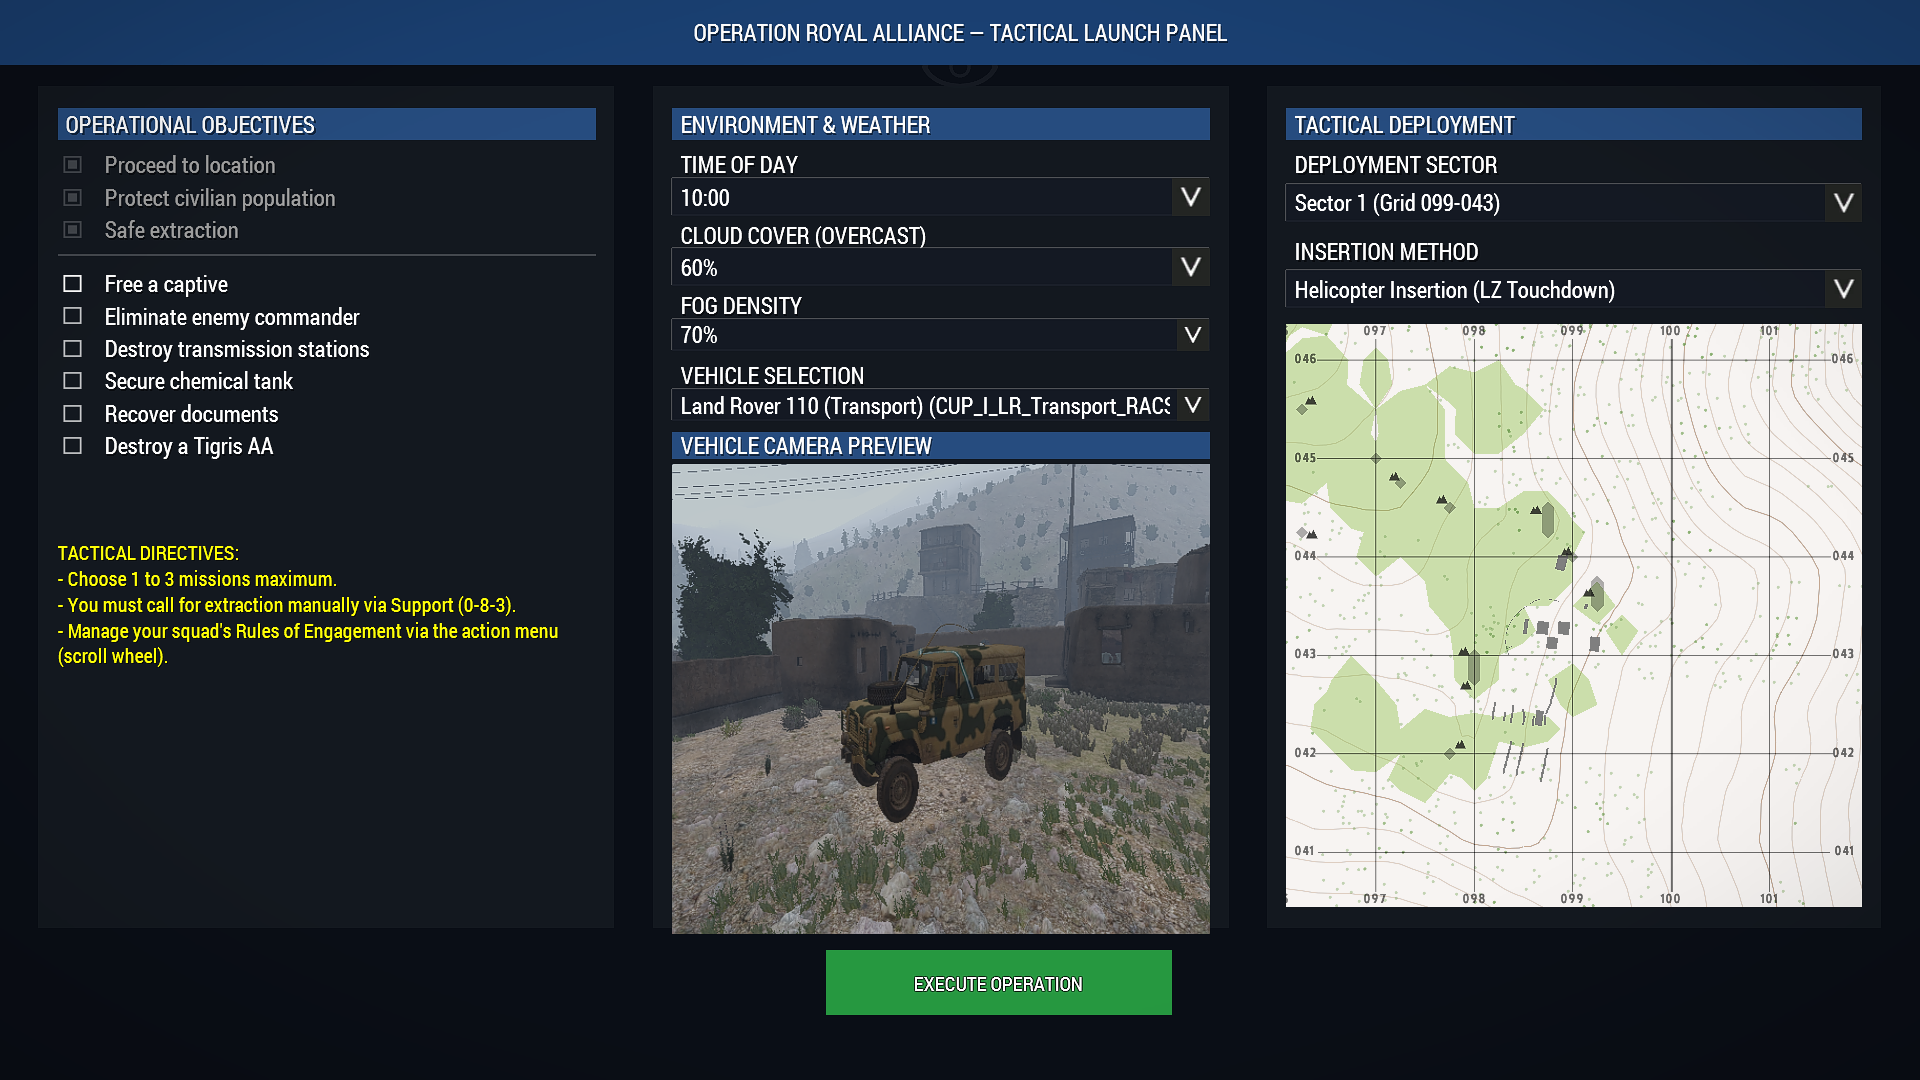
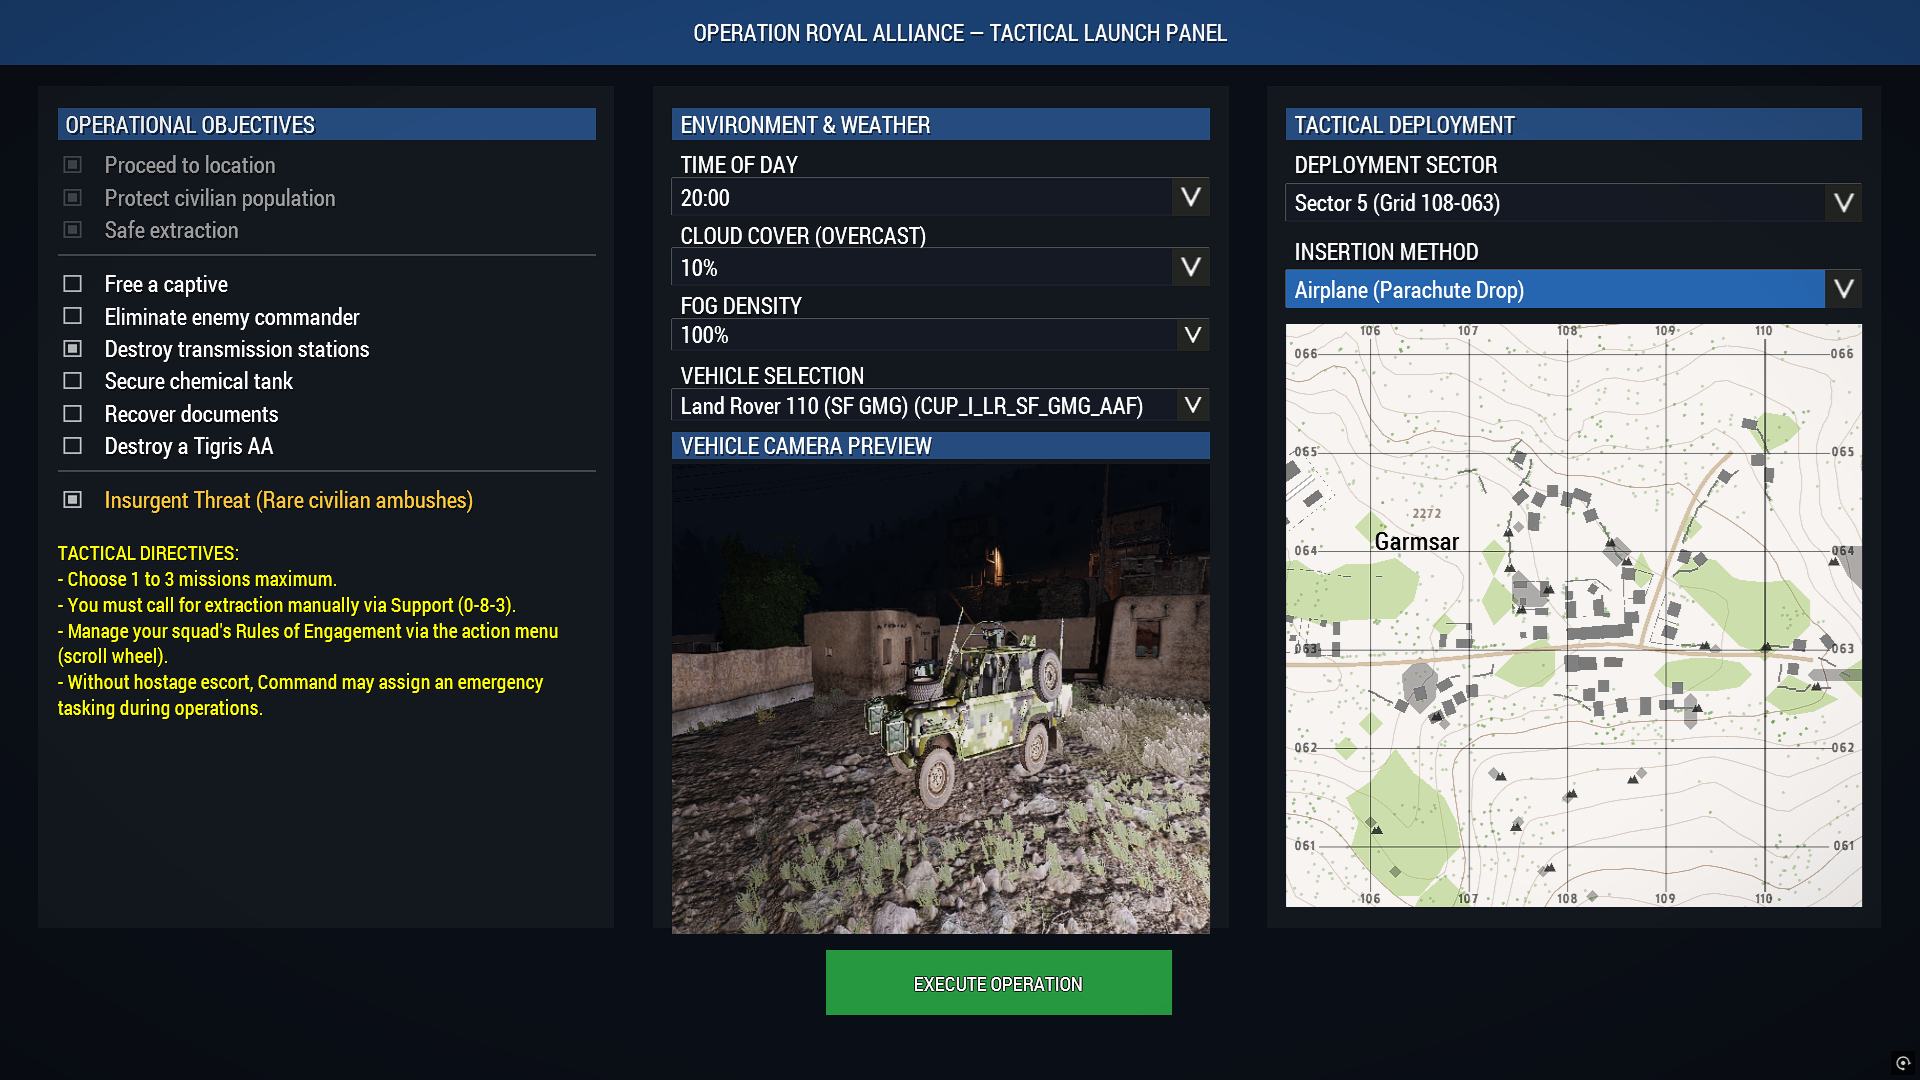
docs & feat: maj description Steam, bips/lumière charge explosive et jumelles

diff --git a/CfgSounds.hpp b/CfgSounds.hpp
@@ -392,6 +392,12 @@ class CfgSounds
         sound[] = {"Music\Shadow_of_the_Valley_01.ogg", db+0, 1.0};
         titles[] = {0, ""};
     };
+    class LL_Charge_Beep
+    {
+        name = "LL_Charge_Beep";
+        sound[] = {"A3\Sounds_F\sfx\beep_target.wss", db+8, 1.0};
+        titles[] = {0, ""};
+    };
     class ezan
     {
         name = "ezan";

diff --git a/INFO_STEAM.md b/INFO_STEAM.md
@@ -34,16 +34,28 @@ Lors de la publication, ajoutez ces mods dans la section "Required items" du Pub
 [b]A custom tactical mission launcher & dynamic operations generator by Friart Script (@friartscript)[/b]
 
 [h2]SITUATION[/h2]
-Deploy into the harsh environments of Takistan. As part of the RACS Foreign Legion, take command through a custom operational launcher to plan and execute dynamic surgical missions behind enemy lines. Every deployment is unique.
+Deploy into the harsh environments of Takistan. As part of the RACS Foreign Legion, take command through a custom operational launcher to plan and execute precision operations behind enemy lines. Every deployment is unique.
+
+[h2]🎖 A WORD FROM THE CREATOR[/h2]
+[quote]
+[b]Hey guys![/b] Keep an eye out for all the small tactical details built into this mission:
+
+• [b]Dynamic Squad & Gear:[/b] Squad uniforms, vests, helmets, faces, voices, and binoculars are procedurally randomized on each run for a fresh experience every time.
+• [b]Adaptive Vehicle Logistics:[/b] Whenever you equip new weapons in the starting arsenal, compatible ammunition and magazines are automatically synchronized and packed into your patrol vehicle's trunk!
+• [b]Tactical Support (0-8 Menu):[/b] Need extra firepower or lost your wheels? The tactical radio support menu delivers ammo supply drops, replacement vehicles, CAS air strikes, and drone reconnaissance straight to your position.
+• [b]Immersive AI & Light Discipline:[/b] Enemies feature realistic night behavior—flashlights stay strictly off in the dark while unaware, diverse gear is worn, and lights only flick on once combat erupts.
+
+I poured a lot of heart into the gritty atmosphere, sound design, and realistic immersion. I really hope you enjoy the experience—feel free to drop a rating and your thoughts in the comments!
+[/quote]
 
 [h2]FEATURES[/h2]
 [list]
 [*] [b]Custom Tactical Mission Launcher[/b]: An interactive 3-panel command center to configure deployment sectors, weather conditions, insertion vector (UH-60 Insertion or C-130 HALO), and live 3D PiP vehicle selection.
-[*] [b]Dynamic Operations Generator[/b]: Choose between 3 mandatory operations and multiple procedural secondary tasks (Hostage Rescue, HVT Elimination, Radio Sabotage, Chemical Weapons, Secret Intel).
-[*] [b]Living Takistani World & Culture[/b]: Authentic local population with men and 3D women (Max Women), traditional Takistani attire and burqas, Persian voice acting, procedural rural livestock (sheep herds), and spatialized 3D Call to Prayer (Ezan) resonating from village mosques.
-[*] [b]Reactive AI & Dynamic Threats[/b]: 6 realistic civilian behavioral profiles fleeing dynamically under fire, diverse insurgent cells (male and female combatants), and coordinated enemy counter-attacks upon objective completion.
-[*] [b]Full Voice Acting & Tactical Support[/b]: Immersive military radio TTS communications, CAS airstrikes, helicopter resupply drops, and real-time MQ-9 Reaper drone surveillance via native communication menu (0-8).
-[*] [b]Multilingual Support[/b]: Fully localized with dynamic subtitles in 12 languages (FR, EN, ES, DE, IT, RU, PL, TR, CN, JP, KO).
+[*] [b]Dynamic Operations Generator[/b]: Choose between 3 mandatory operations and multiple procedural secondary tasks (Hostage Rescue, HVT Elimination, Radio Sabotage with timed beeping explosive charges, Chemical Weapons, Secret Intel).
+[*] [b]Living Takistani World & Culture[/b]: A living civilian population, including women in traditional attire (burqas), authentic Persian/Takistani names, procedural rural livestock (sheep herds), and spatialized 3D Call to Prayer (Ezan) resonating from village mosques.
+[*] [b]Reactive AI & Dynamic Threats[/b]: 6 realistic civilian behavioral profiles fleeing dynamically under fire, diverse insurgent cells (male and female combatants), light discipline, and coordinated enemy counter-attacks upon objective completion.
+[*] [b]Dynamic Military Radio Communications & Tactical Support[/b]: Immersive radio transmissions with authentic Lo-Fi military effects, CAS airstrikes, helicopter resupply drops, and real-time MQ-9 Reaper drone surveillance via native communication menu (0-8).
+[*] [b]Multilingual Support[/b]: Fully localized with dynamic subtitles in 11 languages (FR, EN, ES, DE, IT, RU, PL, TR, CN, JP, KO).
 [/list]
 
 [i]Leave a rating and feedback if you enjoyed the mission![/i]

diff --git a/INFO_POST.md b/INFO_POST.md
@@ -300,7 +300,7 @@ Ce document regroupe les formats de publications (petits, moyens, grands) en **f
 | :--- | :---: | :--- |
 | **🔊 Immersion Sonore & Atmosphère** | **19 / 20** | **Exceptionnel.** Pipeline vocal militaire Lo-Fi (plus de 64 répliques avec filtres radio réels et Roger beeps), ambiance culturelle avec l'Ezân spatialisé depuis les minarets, post-processing cinématique et musiques soignées. |
 | **🎯 Game Design & Rejouabilité** | **18.5 / 20** | **Remarquable.** Panneau tactique complet, modularité des 6 objectifs, synchronisation automatique du coffre du véhicule avec vos armes, soutiens complets (CAS, drone, largages) et mission d'urgence surprise. |
-| **⚡ Architecture Technique & Fluidité** | **18 / 20** | **Très Solide.** Conception Single-Player optimisée sans surcharge réseau, gestion anti-glitch (+0.2m Z, CAN_COLLIDE), échelonnement des spawns à 500m évitant les chutes de FPS, et support natif de 12 langues. |
+| **⚡ Architecture Technique & Fluidité** | **18 / 20** | **Très Solide.** Conception Single-Player optimisée sans surcharge réseau, gestion anti-glitch (+0.2m Z, CAN_COLLIDE), échelonnement des spawns à 500m évitant les chutes de FPS, et support natif de 11 langues. |
 | **🖥 Interface & Ergonomie (QoL)** | **17.5 / 20** | **Très Bon.** Menu avec prévisualisation 3D en direct du véhicule, commandes claires au menu molette et 0-8, guidage ATH actif sur la mission bonus. Une interface tablette type PDA en jeu parachèverait l'ensemble. |
 | **🏆 NOTE GLOBALE** | **18.25 / 20** | **Coup de Cœur Solo MilSim.** Une des missions solo les plus immersives et techniques disponibles sur Arma 3. |
 
@@ -318,7 +318,7 @@ Ce document regroupe les formats de publications (petits, moyens, grands) en **f
    Le fait qu'un ordre radio QG inopiné puisse tomber en fin de mission pour vous projeter vers une nouvelle zone à plus d'1 km rompt la routine prévisible de fin d'opération et donne une utilité concrète aux ravitaillements et véhicules.
 5. **La suite de soutien tactique (Menu 0-8) :**  
    Drone de reconnaissance thermique, frappes hélicoptère CAS et largages parachutés offrent une vraie boîte à outils tactique adaptée aux situations imprévues.
-6. **Le Multilinguisme Natif (12 Langues) :**  
+6. **Le Multilinguisme Natif (11 Langues) :**  
    Très rare sur le Workshop Arma : la mission est immédiatement jouable par toute la communauté internationale sans barrière linguistique.
 
 ---

diff --git a/INFO_EDITOR.md b/INFO_EDITOR.md
@@ -53,7 +53,7 @@
         - CUP_U_B_USMC_MCCUU_des_roll_pads
         - CUP_U_B_USMC_MCCUU_des_roll_pads_gloves
         - CUP_U_B_USMC_MCCUU_des
-Les cagoules sont : 
+- Les cagoules / lunettes sont : 
         - CUP_G_Tan_Scarf_Shades_GPSCombo_Beard
         - CUP_G_Tan_Scarf_Shades_GPS_Beard
         - CUP_G_Tan_Scarf_GPS
@@ -64,9 +64,12 @@ Les cagoules sont :
         - CUP_G_ESS_KHK_Scarf_Tan_GPS_Beard
         - CUP_G_ESS_KHK_Facewrap_Tan
         - G_Bandana_khk
-LNV : NVGooglesB_blk_F
-Jummelles : CUP_LRTV
-grenades : M67
-fumigène blanc
+- Les jumelles / télémètres sont : 
+        - CUP_LRTV
+        - CUP_Vector21Nite
+        - CUP_SOFLAM
+- JVN / Lunettes de vision nocturne (NVG) : NVGogglesB_blk_F
+- Grenades : HandGrenade (ou M67)
+- Fumigènes : SmokeShell (blanc), SmokeShellGreen (vert)
 
 ## véhicules ennemis :
